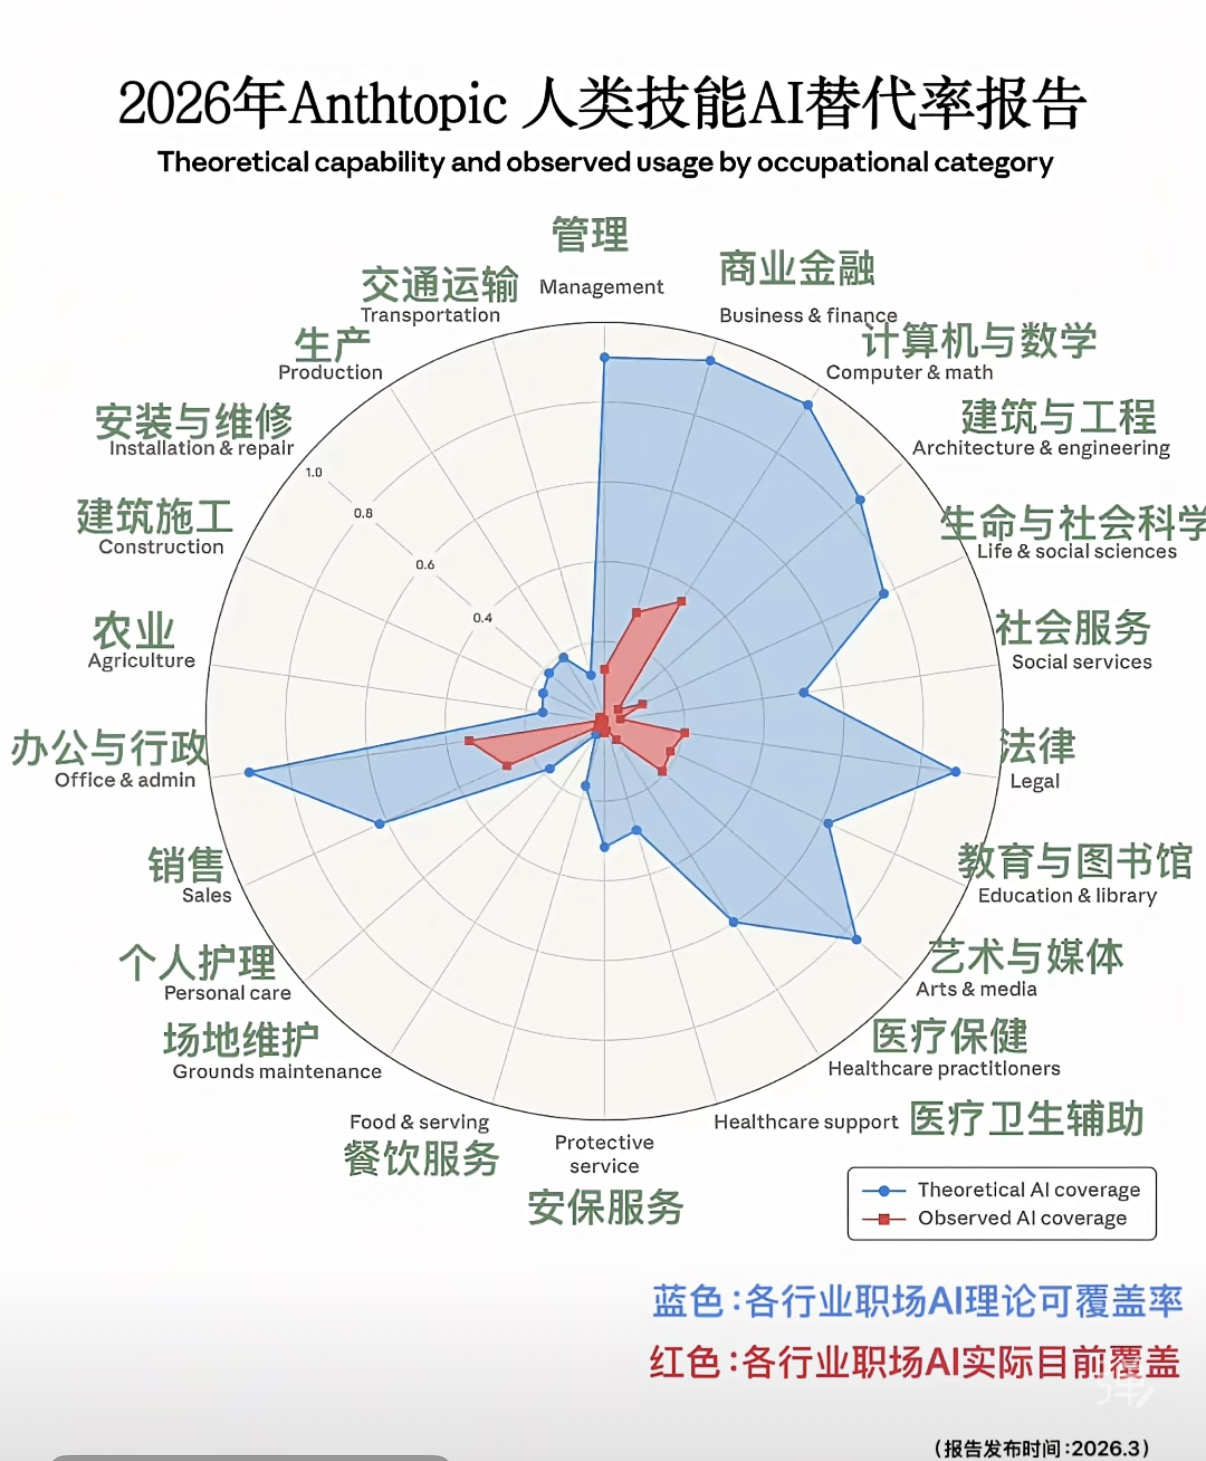
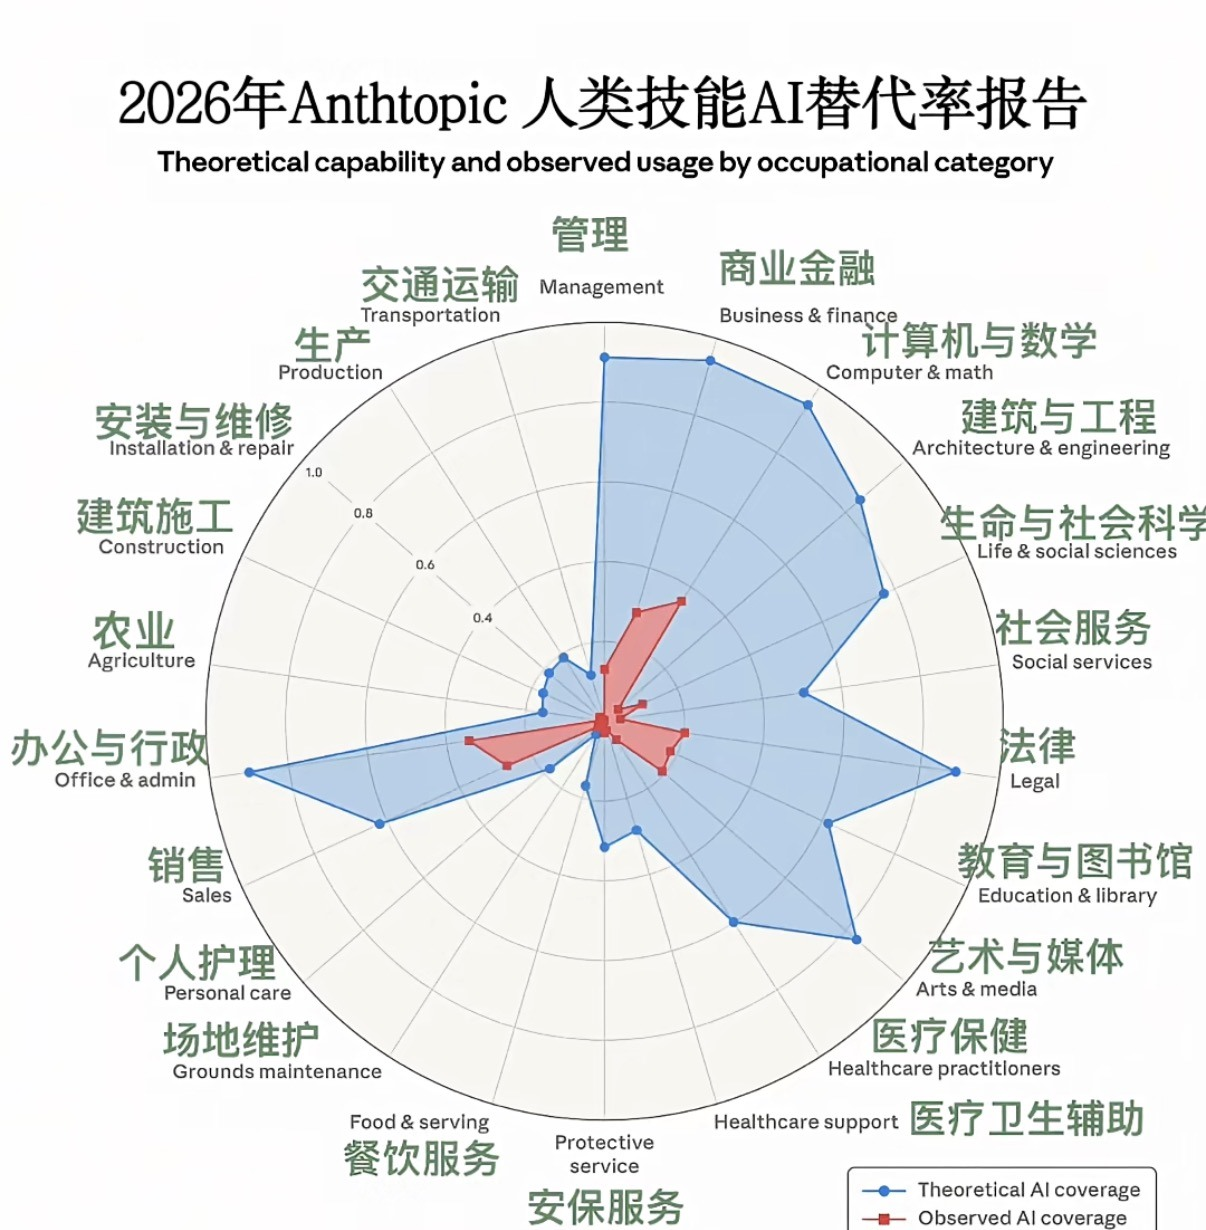
Review pass 3: profile cleanup, drop GPT-2 slide, heatmap scenes, crop radar, projector readability
- Profile (pi): remove 现任, grey out Decathlon row, unbold 近20年
- Delete GPT-2-moment Gartner slide (and untrack its image)
- Personal heatmap: add AI sales-assistant / AI service / AI end-to-end R&D / AIOps at front; drop store-safety, chat-service, precision-marketing; rename 智能排班 -> AI排班 (new-row L/M/H pending author review)
- Crop Anthropic radar image to remove bottom legend (was too tall)
- Projector readability: body weight 300->400, brighten ink-1/ink-2/ink-3
- Deck now 18 slides

diff --git a/index.html b/index.html
@@ -14,9 +14,9 @@
     --bg-1: #060a18;
     --bg-2: #0b1226;
     --ink-0: #eaf6ff;
-    --ink-1: #b8c8e0;
-    --ink-2: #6b7a96;
-    --ink-3: #3e4a66;
+    --ink-1: #cdd9ee;
+    --ink-2: #93a2bf;
+    --ink-3: #56638a;
     --cyan: #00f0ff;
     --cyan-soft: #6cf3ff;
     --magenta: #ff2bd6;
@@ -160,7 +160,7 @@
   }
   h3.sub {
     font-family: "Inter", "Noto Sans SC", sans-serif;
-    font-weight: 300; font-size: clamp(18px, 1.6vw, 24px);
+    font-weight: 400; font-size: clamp(18px, 1.6vw, 24px);
     color: var(--ink-1); line-height: 1.5; letter-spacing: 0.5px;
   }
   .mono { font-family: "JetBrains Mono", monospace; }
@@ -317,7 +317,7 @@
   }
   .thesis .sub-line {
     margin-top: 28px; color: var(--ink-1); font-size: clamp(20px, 2.2vw, 32px);
-    font-weight: 300; line-height: 1.5; max-width: 920px;
+    font-weight: 400; line-height: 1.5; max-width: 920px;
   }
   .thesis .sub-line .hl { color: var(--cyan); font-weight: 500; }
   .thesis .footer-note {
@@ -369,7 +369,7 @@
   .cap-card .examples b { color: var(--cyan-soft); font-weight: 500; }
   .caps .footer {
     text-align: center; margin-top: 8px; color: var(--ink-1);
-    font-size: 18px; font-weight: 300; line-height: 1.6;
+    font-size: 18px; font-weight: 400; line-height: 1.6;
   }
   .caps .footer .arrow {
     display: inline-block; color: var(--cyan); margin: 0 8px;
@@ -506,7 +506,7 @@
   }
   .restaurant .punchline {
     text-align: center; margin-top: 8px; padding: 22px;
-    color: var(--ink-1); font-size: 20px; font-weight: 300;
+    color: var(--ink-1); font-size: 20px; font-weight: 400;
   }
   .restaurant .punchline .hl {
     color: var(--magenta); font-weight: 600;
@@ -529,7 +529,7 @@
     -webkit-background-clip: text; background-clip: text; color: transparent;
   }
   .gartner .g-lead {
-    font-size: 17px; line-height: 1.75; color: var(--ink-1); font-weight: 300;
+    font-size: 17px; line-height: 1.75; color: var(--ink-1); font-weight: 400;
   }
   .gartner .g-lead b { color: var(--ink-0); font-weight: 600; }
   .gartner .g-lead .cy { color: var(--cyan); font-weight: 600; }
@@ -651,7 +651,7 @@
   }
   .datapoints .dp-foot {
     width: 100%; max-width: 1240px; text-align: center;
-    font-size: 16px; line-height: 1.7; color: var(--ink-1); font-weight: 300;
+    font-size: 16px; line-height: 1.7; color: var(--ink-1); font-weight: 400;
   }
   .datapoints .dp-foot b { color: var(--ink-0); font-weight: 600; }
   .datapoints .dp-foot .cy { color: var(--cyan); font-weight: 600; }
@@ -705,7 +705,7 @@
   .ae-card.data .bullets li::before { color: var(--magenta); }
   .ai-elements .punchline {
     text-align: center; max-width: 1080px; padding: 14px 22px;
-    color: var(--ink-1); font-size: 18px; font-weight: 300; line-height: 1.7;
+    color: var(--ink-1); font-size: 18px; font-weight: 400; line-height: 1.7;
   }
   .ai-elements .punchline .hl { color: var(--magenta); font-weight: 600; }
   .ai-elements .punchline .cy { color: var(--cyan); font-weight: 600; }
@@ -734,7 +734,7 @@
   .pi .pi-head .title-now .past { color: var(--ink-2); }
   .pi .pi-head .bio-quote {
     text-align: right; font-size: 16px; color: var(--ink-1);
-    line-height: 1.7; font-weight: 300;
+    line-height: 1.7; font-weight: 400;
   }
   .pi .pi-head .bio-quote b { color: var(--ink-0); font-weight: 600; }
   .pi .pi-head .bio-quote .cy { color: var(--cyan); }
@@ -847,7 +847,7 @@
   }
   .pi .pi-glyph-block .pi-bio {
     margin-top: 10px; text-align: right; font-size: 14px;
-    color: var(--ink-1); font-weight: 300; line-height: 1.65;
+    color: var(--ink-1); font-weight: 400; line-height: 1.65;
   }
   .pi .pi-glyph-block .pi-bio b { color: var(--ink-0); font-weight: 600; }
   .pi .pi-glyph-block .pi-bio .cy { color: var(--cyan); font-weight: 600; }
@@ -1367,9 +1367,9 @@
         <div class="name reveal reveal-2" style="margin-top:12px">高 晨</div>
         <div class="en reveal reveal-2">CHEN&nbsp;GAO</div>
         <div class="title-now reveal reveal-3">
-          ▸ VP · Big Data & AI · GLP（普洛斯）现任<br/>
-          ▸ ex-CDO（Chief Data Officer）· Decathlon China · 迪卡侬<br/>
-          <span class="past">▸ ex-Alibaba · 阿里 · 盒马 / 夸克 / 阿里云 / 天猫<br/>
+          ▸ VP · Big Data & AI · GLP（普洛斯）<br/>
+          <span class="past">▸ ex-CDO（Chief Data Officer）· Decathlon China · 迪卡侬<br/>
+          ▸ ex-Alibaba · 阿里 · 盒马 / 夸克 / 阿里云 / 天猫<br/>
           ▸ ex-J&amp;J Ethicon · 强生 &nbsp;·&nbsp; ex-Novartis · 诺华<br/>
           ▸ ex-University of Washington · 华盛顿大学</span>
         </div>
@@ -1379,7 +1379,7 @@
         <div class="pi-tagline">π-SHAPED EXPERT</div>
         <div class="pi-bio">
           跨 <b class="cy">10 大行业</b>,在 <b class="cy">大数据</b> 与 <b class="mg">AI</b><br/>
-          两条专业线上 <b>近 20 年</b> 深耕。
+          两条专业线上 近 20 年 深耕。
         </div>
       </div>
     </div>
@@ -1424,33 +1424,6 @@
       </div>
       <div class="pi-mark reveal reveal-6">
         一横 = <span class="cy">10 大行业</span> &nbsp;·&nbsp; 两纵 = <span class="cy">大数据</span> · <span class="mg">AI</span>
-      </div>
-    </div>
-  </section>
-
-  <!-- ============ 3a · 行业大势：GPT-2 时刻 ============ -->
-  <section class="slide gartner">
-    <div class="g-head">
-      <div class="eyebrow reveal reveal-1">INDUSTRY MOMENT · 行业坐标</div>
-      <h2 class="title reveal reveal-2" style="margin-top:14px">我们站在 <em>哪一个</em> 时刻?</h2>
-    </div>
-    <div class="g-body">
-      <div class="g-text">
-        <div class="g-bigword reveal reveal-3">GPT-2 时刻</div>
-        <div class="g-lead reveal reveal-4">
-          <b>机器人产业</b>正处在大语言模型的 <span class="cy">"GPT-2 阶段"</span> ——
-          预期 1–2 年内进入 <b>GPT-3 时刻</b>,之后大规模量产。
-        </div>
-        <div class="g-datarow reveal reveal-5">
-          <div class="dp"><div class="v">1000<span class="u">万</span></div><div class="k">2030 制造业工人缺口</div></div>
-          <div class="dp"><div class="v">5–7<span class="u">万亿$</span></div><div class="k">2050 机器人市场规模</div></div>
-          <div class="dp"><div class="v">&lt;20<span class="u">家</span></div><div class="k">2028 正式上线公司</div></div>
-        </div>
-      </div>
-      <div class="image-card reveal reveal-4">
-        <span class="corner-l"></span><span class="corner-r"></span>
-        <span class="src-tag">GARTNER · 2026</span>
-        <img src="assets/gartner-gpt2.png" alt="GPT-2 moment of robotics — Gartner 2026" />
       </div>
     </div>
   </section>
@@ -1801,16 +1774,17 @@
           </tr>
         </thead>
         <tbody>
+          <tr><td class="row-label">AI 销售助理</td><td class="cell h">H</td><td class="cell m">M</td><td class="cell l">L</td><td class="cell l">L</td><td class="cell m">M</td><td class="cell m">M</td></tr>
+          <tr><td class="row-label">AI 客服</td><td class="cell h">H</td><td class="cell m">M</td><td class="cell l">L</td><td class="cell l">L</td><td class="cell m">M</td><td class="cell l">L</td></tr>
+          <tr><td class="row-label">AI 端到端研发</td><td class="cell h">H</td><td class="cell l">L</td><td class="cell l">L</td><td class="cell l">L</td><td class="cell m">M</td><td class="cell m">M</td></tr>
+          <tr><td class="row-label">AI 运维</td><td class="cell m">M</td><td class="cell h">H</td><td class="cell m">M</td><td class="cell m">M</td><td class="cell h">H</td><td class="cell h">H</td></tr>
           <tr><td class="row-label">AI 选址</td><td class="cell l">L</td><td class="cell h">H</td><td class="cell m">M</td><td class="cell m">M</td><td class="cell l">L</td><td class="cell m">M</td></tr>
           <tr><td class="row-label">AI 选品</td><td class="cell m">M</td><td class="cell h">H</td><td class="cell l">L</td><td class="cell l">L</td><td class="cell m">M</td><td class="cell m">M</td></tr>
           <tr><td class="row-label">AI 预测</td><td class="cell l">L</td><td class="cell h">H</td><td class="cell m">M</td><td class="cell h">H</td><td class="cell m">M</td><td class="cell l">L</td></tr>
           <tr><td class="row-label">价格弹性</td><td class="cell l">L</td><td class="cell h">H</td><td class="cell h">H</td><td class="cell m">M</td><td class="cell l">L</td><td class="cell l">L</td></tr>
           <tr><td class="row-label">AI 合同识别</td><td class="cell h">H</td><td class="cell m">M</td><td class="cell l">L</td><td class="cell l">L</td><td class="cell m">M</td><td class="cell l">L</td></tr>
           <tr><td class="row-label">AI 问数</td><td class="cell h">H</td><td class="cell m">M</td><td class="cell l">L</td><td class="cell l">L</td><td class="cell l">L</td><td class="cell m">M</td></tr>
-          <tr><td class="row-label">智能排班</td><td class="cell l">L</td><td class="cell m">M</td><td class="cell h">H</td><td class="cell m">M</td><td class="cell m">M</td><td class="cell l">L</td></tr>
-          <tr><td class="row-label">精准营销</td><td class="cell m">M</td><td class="cell h">H</td><td class="cell m">M</td><td class="cell l">L</td><td class="cell l">L</td><td class="cell m">M</td></tr>
-          <tr><td class="row-label">门店安全诊断</td><td class="cell h">H</td><td class="cell m">M</td><td class="cell l">L</td><td class="cell l">L</td><td class="cell m">M</td><td class="cell l">L</td></tr>
-          <tr><td class="row-label">客服 / 对话</td><td class="cell h">H</td><td class="cell l">L</td><td class="cell l">L</td><td class="cell l">L</td><td class="cell l">L</td><td class="cell m">M</td></tr>
+          <tr><td class="row-label">AI 排班</td><td class="cell l">L</td><td class="cell m">M</td><td class="cell h">H</td><td class="cell m">M</td><td class="cell m">M</td><td class="cell l">L</td></tr>
         </tbody>
       </table>
     </div>